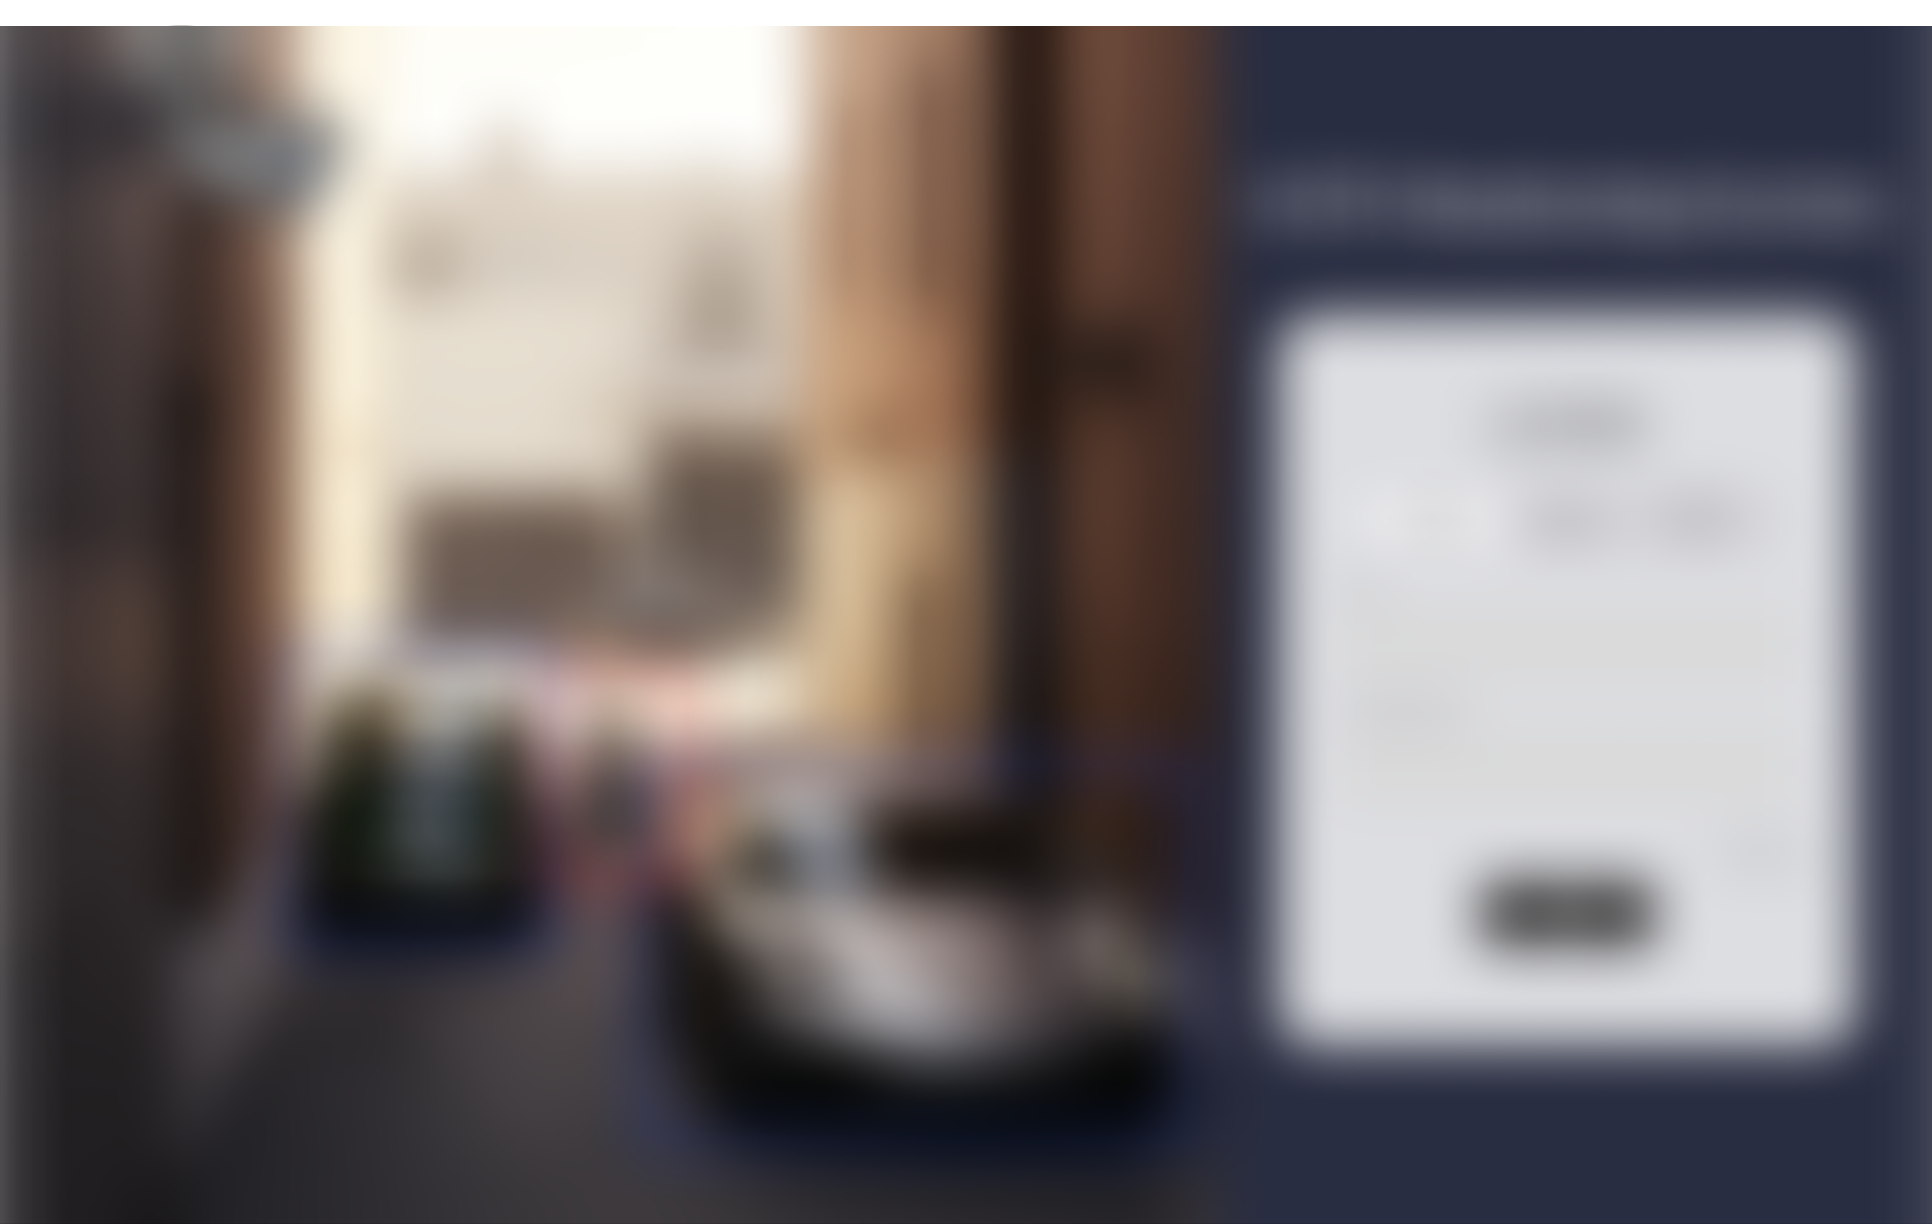
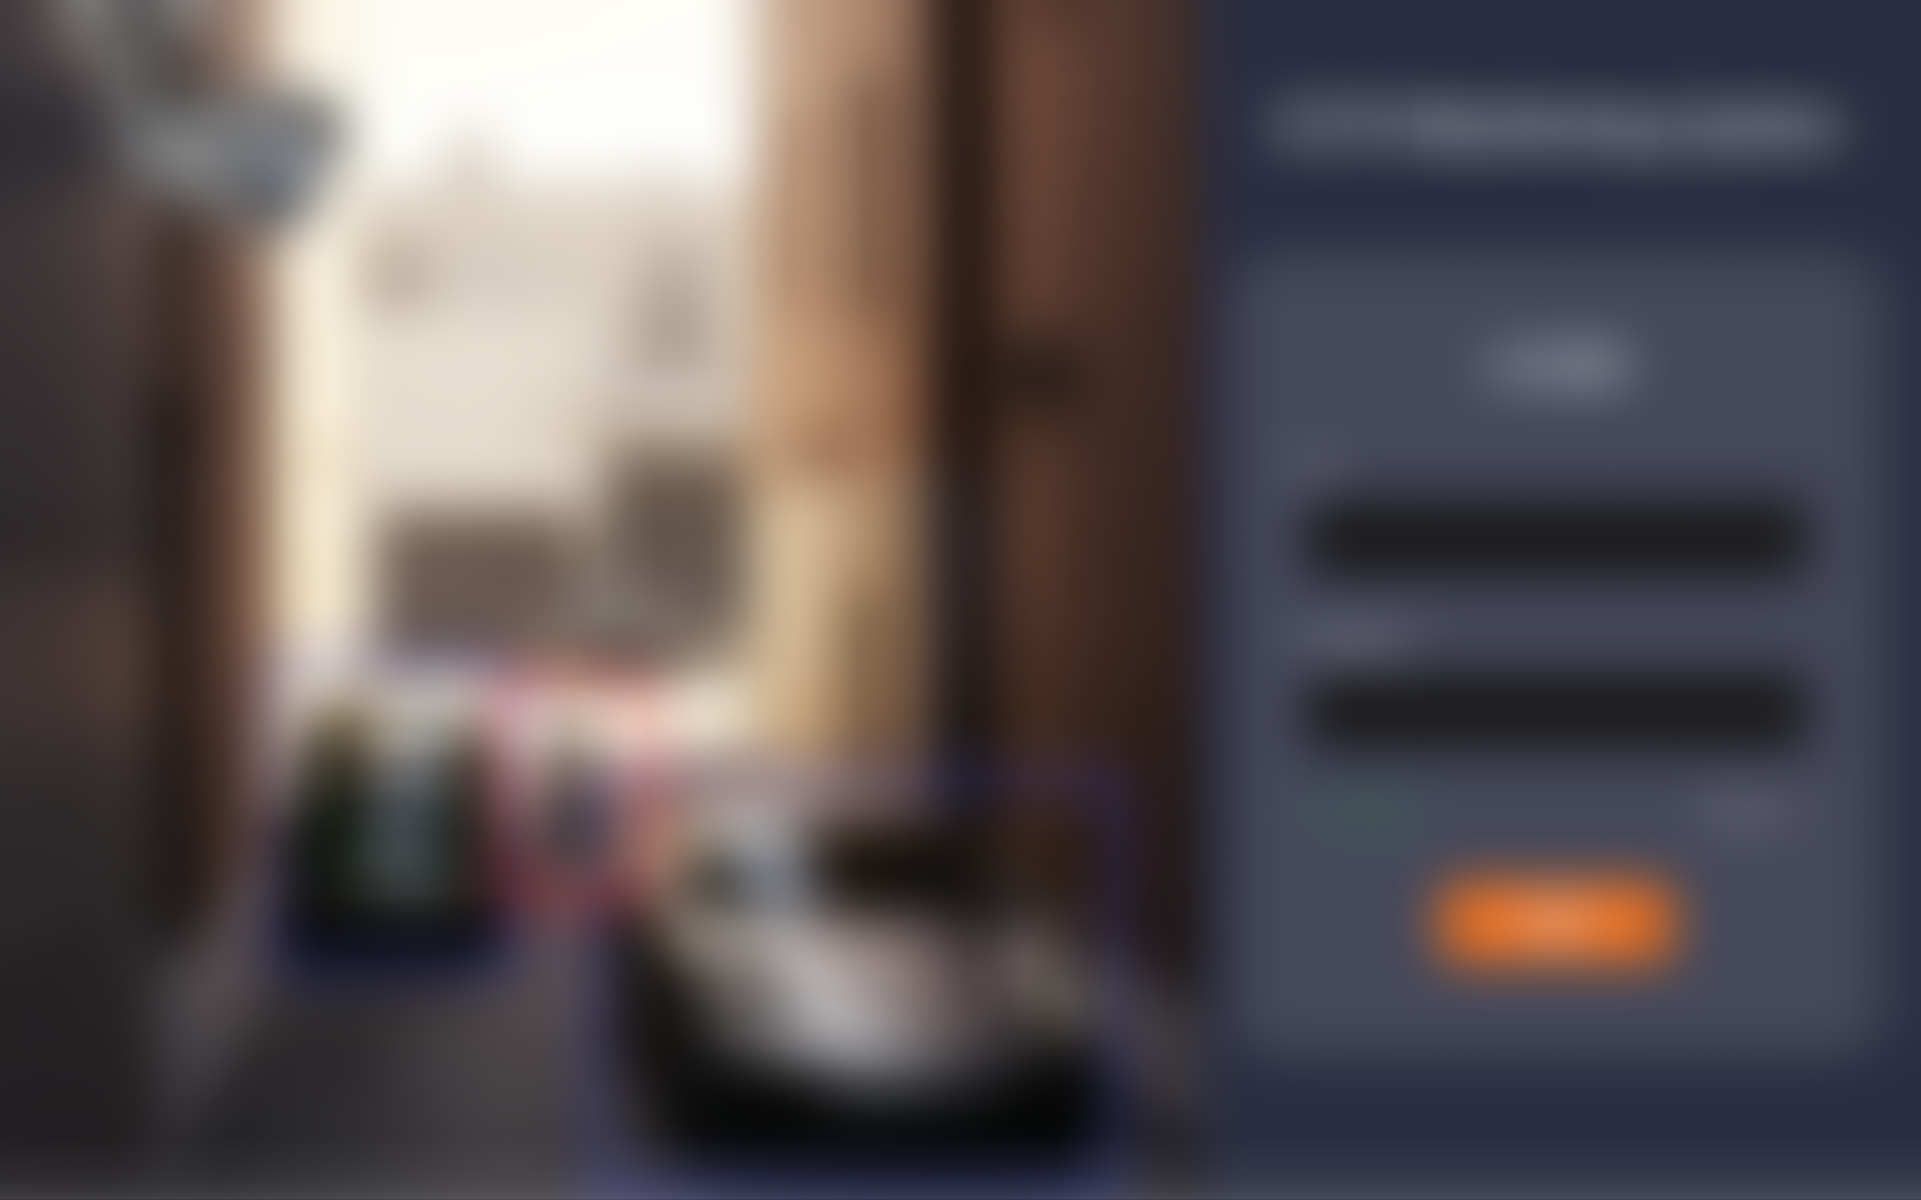
modify etc settings

diff --git a/LineDrawingDialog.cpp b/LineDrawingDialog.cpp
@@ -643,9 +643,6 @@ LineDrawingDialog::LineDrawingDialog(const QString &rtspUrl, QWidget *parent)
     : QDialog(parent)
     , m_mappingCountLabel(nullptr)
     , m_sendMappingsButton(nullptr)
-    , m_
-    
-    Layout(nullptr)
     , m_buttonLayout(nullptr)
     , m_videoView(nullptr)
     , m_startDrawingButton(nullptr)
@@ -1209,7 +1206,7 @@ void LineDrawingDialog::setupUI()
     m_buttonLayout->addWidget(loadSavedLinesButton);
     */
 
-    //선 그리기 및 (중지)
+    //선 그리기
     m_startDrawingButton = new QPushButton();
     m_startDrawingButton->setIcon(QIcon(":/icons/cil_pen.png"));
     m_startDrawingButton->setIconSize(QSize(30,30));
@@ -1237,15 +1234,23 @@ void LineDrawingDialog::setupUI()
     //connect(m_startDrawingButton, &QPushButton::clicked, this, &LineDrawingDialog::onStartDrawingClicked);
     //m_buttonLayout->addWidget(m_startDrawingButton);
 
-    /*
-    m_stopDrawingButton = new QPushButton("그리기 중지");
-    m_stopDrawingButton->setStyleSheet("QPushButton { background-color: #f37321; color: white; padding: 10px 20px; border: none; border-radius: 5px; font-weight: bold; font-size:10pt;} "
-                                       "QPushButton:hover { background-color: #f89b6c; }"
-                                       "QPushButton:disabled { background-color: #b3aca5; }");
-    m_stopDrawingButton->setEnabled(false);
+    // 선 그리기 중지
+    m_stopDrawingButton = new QPushButton();
+    m_stopDrawingButton->setIcon(QIcon(":/icons/cil_pen_clicked.png"));
+    m_stopDrawingButton->setIconSize(QSize(30,30));
+    m_stopDrawingButton->setStyleSheet("QPushButton { background-color: transparent; font-size: 20px; border: none; padding: 15px 20px;} "
+                                        "QPushButton:hover { background-color: rgba(255,255,255,0.1); border-radius: 40px; }");
+    m_stopDrawingButton->setToolTip("선 그리기 중지");
+    qApp->setStyleSheet("QToolTip { "
+                        "color: black; "          // 글씨색
+                        "background-color: #ffffff; "  // 밝은 배경색
+                        "border: 1px solid gray; "
+                        "padding: 3px; "
+                        "}");
     connect(m_stopDrawingButton, &QPushButton::clicked, this, &LineDrawingDialog::onStopDrawingClicked);
     m_buttonLayout->addWidget(m_stopDrawingButton);
-    */
+    m_stopDrawingButton->hide();
+
     //선 지우기
     m_clearLinesButton = new QPushButton();
     m_clearLinesButton->setIcon(QIcon(":/icons/eraser.png"));
@@ -1287,7 +1292,7 @@ void LineDrawingDialog::setupUI()
     m_buttonLayout->addWidget(m_sendCoordinatesButton);
 
 
-    // BBox
+    // BBox ON
     m_bboxOnButton = new QPushButton();
     m_bboxOnButton->setIcon(QIcon(":/icons/squares.png"));
     m_bboxOnButton->setIconSize(QSize(30,30));
@@ -1302,6 +1307,23 @@ void LineDrawingDialog::setupUI()
                         "}");
     connect(m_bboxOnButton, &QPushButton::clicked, this, &LineDrawingDialog::onBBoxOnClicked);
     m_buttonLayout->addWidget(m_bboxOnButton);
+
+    // BBox OFF
+    m_bboxOffButton = new QPushButton();
+    m_bboxOffButton->setIcon(QIcon(":/icons/squares_clicked.png"));
+    m_bboxOffButton->setIconSize(QSize(30,30));
+    m_bboxOffButton->setStyleSheet("QPushButton { background-color: transparent; color: white; font-size: 20px; border: none; padding: 15px 20px;} "
+                                   "QPushButton:hover { background-color: rgba(255,255,255,0.1); border-radius: 40px; }");
+    m_bboxOffButton->setToolTip("Bounding Box OFF");
+    qApp->setStyleSheet("QToolTip { "
+                        "color: black; "          // 글씨색
+                        "background-color: #ffffff; "  // 밝은 배경색
+                        "border: 1px solid gray; "
+                        "padding: 3px; "
+                        "}");
+    connect(m_bboxOffButton, &QPushButton::clicked, this, &LineDrawingDialog::onBBoxOffClicked);
+    m_buttonLayout->addWidget(m_bboxOffButton);
+    m_bboxOffButton->hide();
 
 
     /*
@@ -1318,9 +1340,9 @@ void LineDrawingDialog::setupUI()
                                    "QPushButton:disabled { background-color: #b3aca5; }");
     connect(m_bboxOffButton, &QPushButton::clicked, this, &LineDrawingDialog::onBBoxOffClicked);
     m_buttonLayout->addWidget(m_bboxOffButton);
-
-    m_buttonLayout->addStretch();
     */
+
+    // m_buttonLayout->addStretch();
 
     //닫기 버튼
     m_closeButton = new QPushButton();
@@ -1358,14 +1380,9 @@ void LineDrawingDialog::setupUI()
 }
 void LineDrawingDialog::onStartDrawingClicked()
 {
-    static bool isClicked = false;
-    if (!isClicked) {
-        m_startDrawingButton->setIcon(QIcon(":/icons/cil_pen_clicked.png"));
-        isClicked = true;
-    } else {
-        m_startDrawingButton->setIcon(QIcon(":/icons/cil_pen.png"));
-        isClicked = false;
-    }
+    m_startDrawingButton->hide();
+    m_stopDrawingButton->show();
+
     m_isDrawingMode = true;
     m_videoView->setDrawingMode(true);
 
@@ -1420,25 +1437,11 @@ void LineDrawingDialog::stopVideoStream()
     // }
 }
 
-/*
-void LineDrawingDialog::onStartDrawingClicked()
-{
-    m_isDrawingMode = true;
-    m_videoView->setDrawingMode(true);
-
-    m_startDrawingButton->setEnabled(false);
-    m_stopDrawingButton->setEnabled(true);
-
-    // m_statusLabel->setText("그리기 모드 활성화 - 마우스로 선을 그어주세요");
-    addLogMessage("그리기 모드가 활성화되었습니다.", "ACTION");
-    updateButtonStates();
-
-    qDebug() << "그리기 모드 활성화됨";
-}
-*/
-
 void LineDrawingDialog::onStopDrawingClicked()
 {
+    m_startDrawingButton->show();
+    m_stopDrawingButton->hide();
+
     m_isDrawingMode = false;
     m_videoView->setDrawingMode(false);
 
@@ -1984,6 +1987,9 @@ void LineDrawingDialog::onBBoxesReceived(const QList<BBox> &bboxes, qint64 times
 // BBox ON 버튼 클릭 슬롯
 void LineDrawingDialog::onBBoxOnClicked()
 {
+    m_bboxOffButton->show();
+    m_bboxOnButton->hide();
+
     m_bboxEnabled = true;
     m_bboxOnButton->setEnabled(false);
     m_bboxOffButton->setEnabled(true);
@@ -2007,6 +2013,9 @@ void LineDrawingDialog::onBBoxOnClicked()
 // BBox OFF 버튼 클릭 슬롯
 void LineDrawingDialog::onBBoxOffClicked()
 {
+    m_bboxOffButton->hide();
+    m_bboxOnButton->show();
+
     m_bboxEnabled = false;
     m_bboxOnButton->setEnabled(true);
     m_bboxOffButton->setEnabled(false);

diff --git a/MainWindow.cpp b/MainWindow.cpp
@@ -496,6 +496,7 @@ void MainWindow::onNetworkConfigClicked()
 {
     if (!m_networkDialog) {
         m_networkDialog = new NetworkConfigDialog(this);
+        m_networkDialog->setWindowFlags(Qt::Window | Qt::FramelessWindowHint);
         m_networkDialog->setRtspUrl(m_rtspUrl);
         m_networkDialog->setTcpHost(m_tcpHost);
         m_networkDialog->setTcpPort(m_tcpPort);
@@ -528,6 +529,7 @@ void MainWindow::onVideoStreamClicked()
     if (!m_lineDrawingDialog) {
         // TcpCommunicator를 직접 전달
         m_lineDrawingDialog = new LineDrawingDialog(m_rtspUrl, m_tcpCommunicator, this);
+        m_lineDrawingDialog->setWindowFlags(Qt::Window | Qt::FramelessWindowHint);
         
         // 기존 시그널 연결
         connect(m_lineDrawingDialog, &LineDrawingDialog::lineCoordinatesReady,
